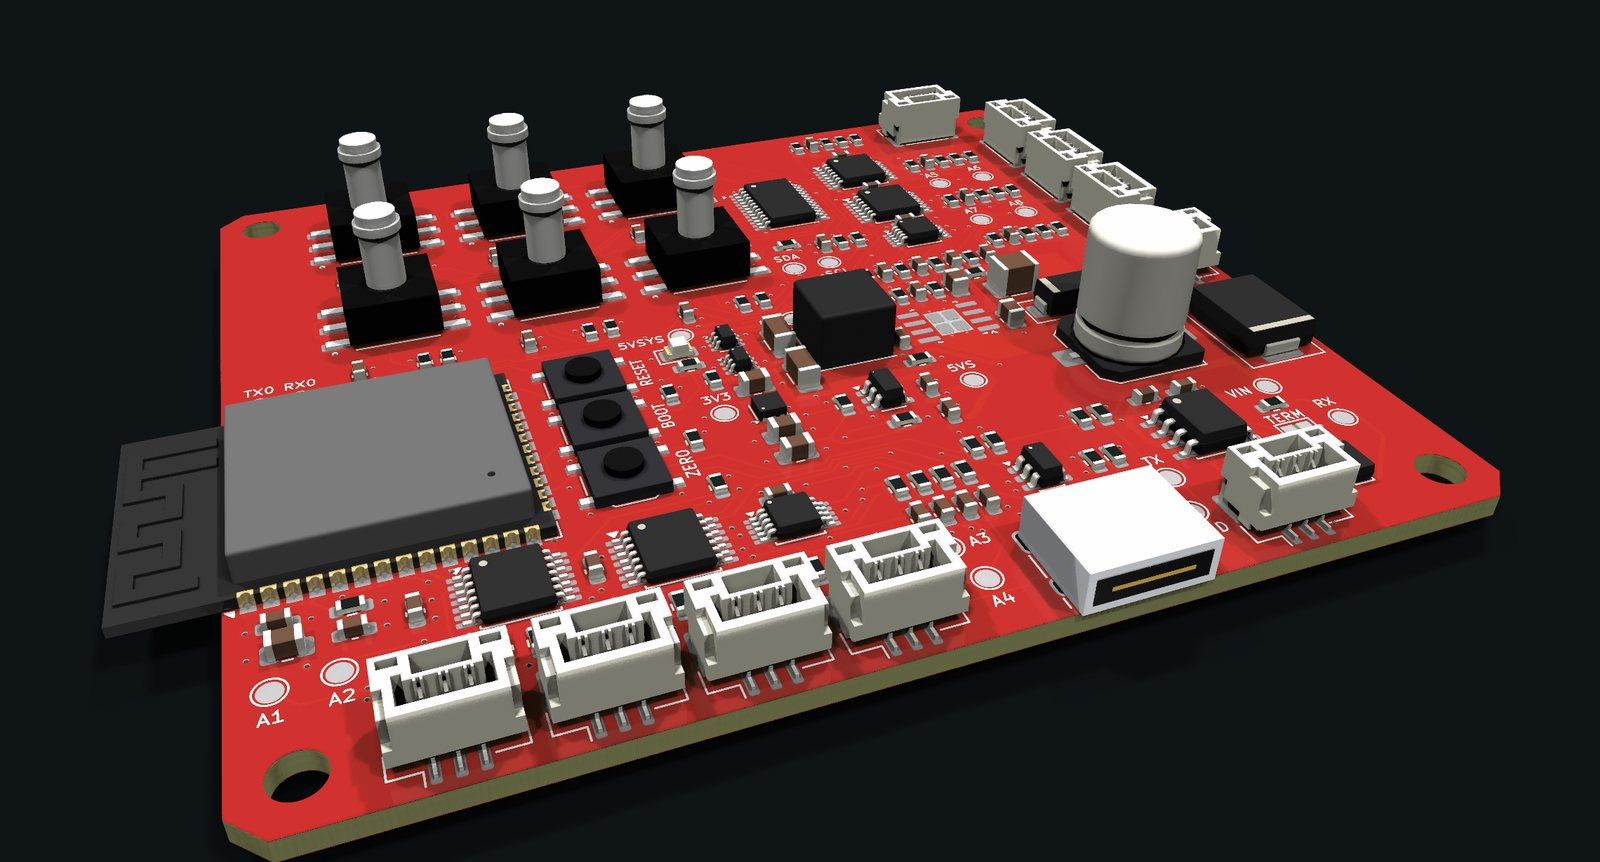
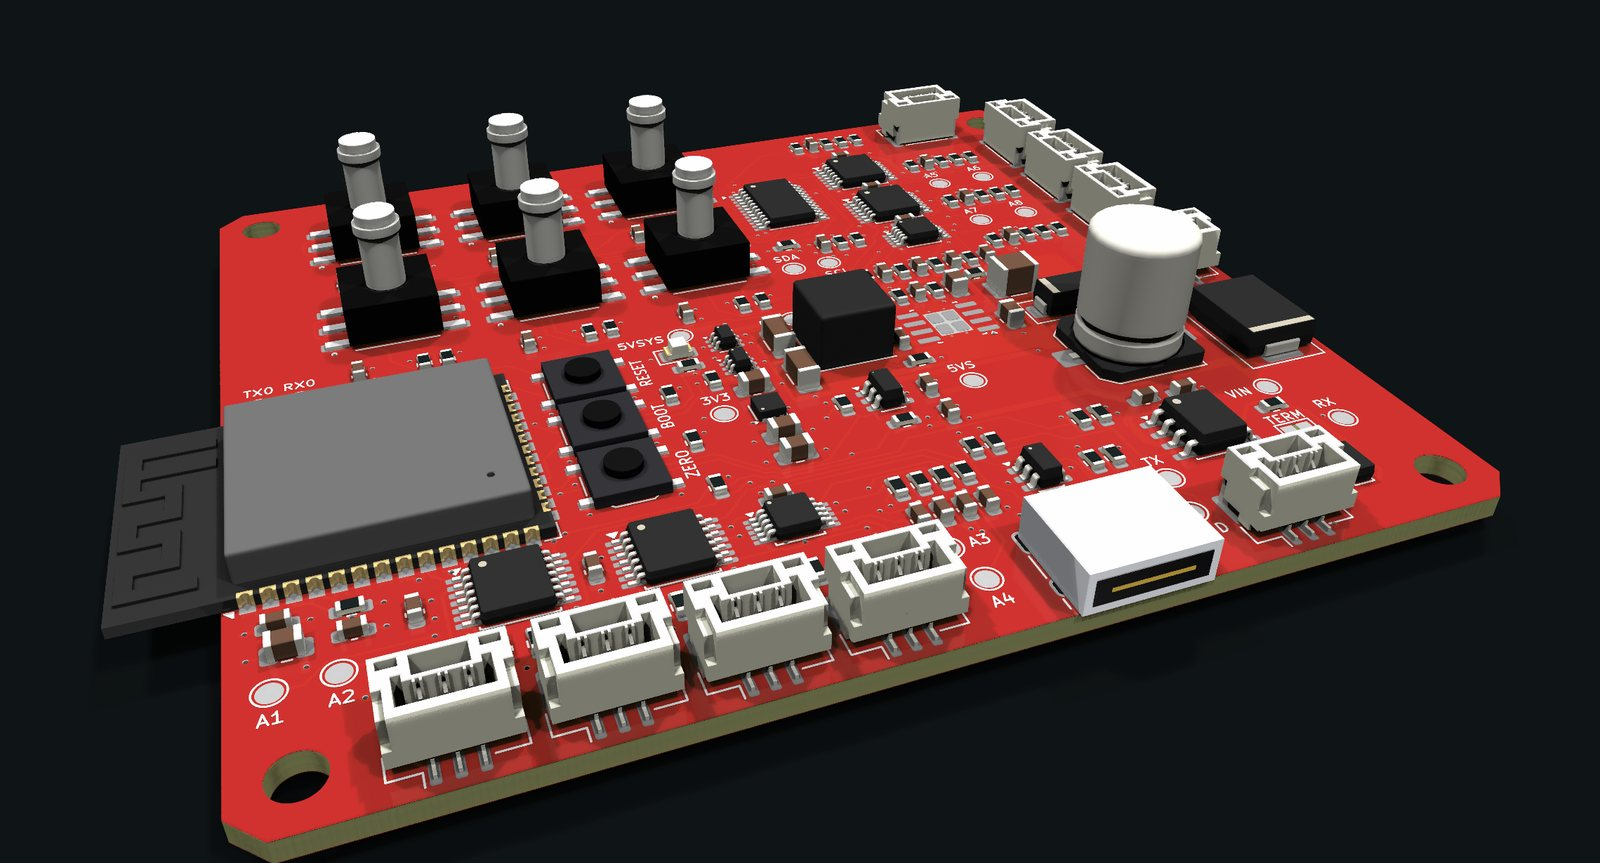
Pressure CAN node post: 1 A 3.3 V regulator, current renders
The board's 3.3 V regulator is now a 1 A TLV76733 with room for Wi-Fi:
tour callout and power schematic updated (SNS pin to the output). New
renders from the current board files, which include the USB-C to
resistor pair on one layer.

Claude-Session: https://claude.ai/code/session_0179yenozQ4DUcdGS3Z8KsNS

diff --git a/_includes/pressure-node-feature.html b/_includes/pressure-node-feature.html
@@ -133,7 +133,7 @@
     <div class="stat"><b>100 Hz</b><span>CAN frames at 500 kbit/s</span></div>
     <div class="stat"><b>12 V</b><span>switched supply, or USB on the bench</span></div>
   </div>
-  <figure class="shot"><a href="/assets/images/pressure-node/hero.jpg"><img src="/assets/images/pressure-node/hero.jpg" alt="Render of the red rev E board at an angle: six pressure sensors, each with one hose barb, in two rows at the back left, the ESP32-S3 module on the left edge, the second analog block and its connectors at the back right, the analog, USB-C and CAN connectors along the front" width="1600" height="864" decoding="async"></a>
+  <figure class="shot"><a href="/assets/images/pressure-node/hero.jpg"><img src="/assets/images/pressure-node/hero.jpg" alt="Render of the red rev E board at an angle: six pressure sensors, each with one hose barb, in two rows at the back left, the ESP32-S3 module on the left edge, the second analog block and its connectors at the back right, the analog, USB-C and CAN connectors along the front" width="1600" height="865" decoding="async"></a>
   <figcaption>Rev E, rendered from the board files. 79 × 70 mm, four layers.</figcaption></figure>
 </div>
 
@@ -148,7 +148,7 @@
 
 <h2 id="board">The board</h2>
 <p class="lead">Everything is surface mount and placed by the board house, the pressure sensors included.</p>
-<figure class="tourfig"><div class="scroll"><svg class="tour" viewBox="0 0 1840 820" role="img" aria-label="Top view of the rev E board with each section labelled: pressure sensors, I2C switch, both analog front ends and their connectors, ADC, status LED, ESP32-S3, buttons, 5 V OR, sensor 5 V switch, 3.3 V regulator, 5 V buck, input protection, 12 V input, CAN transceiver, CAN connector and USB-C"><image href="/assets/images/pressure-node/top.jpg" x="470" y="30" width="900" height="760.5"/><polyline class="ld-u" points="452.0,60.0 464.0,60.0 678.3,150.1"/><polyline class="ld" points="452.0,60.0 464.0,60.0 678.3,150.1"/><circle class="ld-dot" cx="678.3" cy="150.1" r="7"/><text class="ct" x="444" y="70.0" text-anchor="end">Pressure sensors DP1–6</text><text class="cd" x="444" y="101.0" text-anchor="end">WF100DPZ, 10 and 40 kPa, one barb</text><polyline class="ld-u" points="452.0,148.1 464.0,148.1 912.4,433.3"/><polyline class="ld" points="452.0,148.1 464.0,148.1 912.4,433.3"/><circle class="ld-dot" cx="912.4" cy="433.3" r="7"/><text class="ct" x="444" y="158.1" text-anchor="end">5 V OR</text><text class="cd" x="444" y="189.1" text-anchor="end">LM66100 pair: car or USB</text><polyline class="ld-u" points="452.0,236.1 464.0,236.1 874.4,419.2"/><polyline class="ld" points="452.0,236.1 464.0,236.1 874.4,419.2"/><circle class="ld-dot" cx="874.4" cy="419.2" r="7"/><text class="ct" x="444" y="246.1" text-anchor="end">Status LED</text><text class="cd" x="444" y="277.1" text-anchor="end">On when every fitted channel reads</text><polyline class="ld-u" points="452.0,324.2 464.0,324.2 798.3,492.3"/><polyline class="ld" points="452.0,324.2 464.0,324.2 798.3,492.3"/><circle class="ld-dot" cx="798.3" cy="492.3" r="7"/><text class="ct" x="444" y="334.2" text-anchor="end">RESET, BOOT, ZERO</text><text class="cd" x="444" y="365.2" text-anchor="end">ZERO zeroes the pressures</text><polyline class="ld-u" points="452.0,412.2 464.0,412.2 617.3,502.3"/><polyline class="ld" points="452.0,412.2 464.0,412.2 617.3,502.3"/><circle class="ld-dot" cx="617.3" cy="502.3" r="7"/><text class="ct" x="444" y="422.2" text-anchor="end">ESP32-S3</text><text class="cd" x="444" y="453.2" text-anchor="end">Antenna hangs past the edge</text><polyline class="ld-u" points="452.0,500.3 464.0,500.3 912.4,512.3"/><polyline class="ld" points="452.0,500.3 464.0,500.3 912.4,512.3"/><circle class="ld-dot" cx="912.4" cy="512.3" r="7"/><text class="ct" x="444" y="510.3" text-anchor="end">3.3 V regulator</text><text class="cd" x="444" y="541.3" text-anchor="end">TLV75533 LDO for the logic</text><polyline class="ld-u" points="452.0,588.4 464.0,588.4 710.3,630.3"/><polyline class="ld" points="452.0,588.4 464.0,588.4 710.3,630.3"/><circle class="ld-dot" cx="710.3" cy="630.3" r="7"/><text class="ct" x="444" y="598.4" text-anchor="end">Isolate and buffer</text><text class="cd" x="444" y="629.4" text-anchor="end">TMUX1511 and TLV9004, AIN1–4</text><polyline class="ld-u" points="452.0,676.4 464.0,676.4 884.4,630.3"/><polyline class="ld" points="452.0,676.4 464.0,676.4 884.4,630.3"/><circle class="ld-dot" cx="884.4" cy="630.3" r="7"/><text class="ct" x="444" y="686.4" text-anchor="end">16-bit ADC</text><text class="cd" x="444" y="717.4" text-anchor="end">ADS1115 for AIN1–4</text><polyline class="ld-u" points="452.0,764.5 464.0,764.5 662.3,722.4"/><polyline class="ld" points="452.0,764.5 464.0,764.5 662.3,722.4"/><circle class="ld-dot" cx="662.3" cy="722.4" r="7"/><text class="ct" x="444" y="774.5" text-anchor="end">Analog inputs AIN1–4</text><text class="cd" x="444" y="805.5" text-anchor="end">5 V, ground, 0–5 V signal</text><polyline class="ld-u" points="1388.0,60.0 1376.0,60.0 1033.4,210.2"/><polyline class="ld" points="1388.0,60.0 1376.0,60.0 1033.4,210.2"/><circle class="ld-dot" cx="1033.4" cy="210.2" r="7"/><text class="ct" x="1396" y="70.0" text-anchor="start">I2C switch</text><text class="cd" x="1396" y="101.0" text-anchor="start">TCA9548A, a branch per sensor</text><polyline class="ld-u" points="1388.0,138.3 1376.0,138.3 1127.5,245.2"/><polyline class="ld" points="1388.0,138.3 1376.0,138.3 1127.5,245.2"/><circle class="ld-dot" cx="1127.5" cy="245.2" r="7"/><text class="ct" x="1396" y="148.3" text-anchor="start">AIN5–8 front end</text><text class="cd" x="1396" y="179.3" text-anchor="start">Same parts as AIN1–4</text><polyline class="ld-u" points="1388.0,216.6 1376.0,216.6 1303.4,255.2"/><polyline class="ld" points="1388.0,216.6 1376.0,216.6 1303.4,255.2"/><circle class="ld-dot" cx="1303.4" cy="255.2" r="7"/><text class="ct" x="1396" y="226.6" text-anchor="start">Analog inputs AIN5–8</text><text class="cd" x="1396" y="257.6" text-anchor="start">5 V, ground, 0–5 V signal</text><polyline class="ld-u" points="1388.0,294.8 1376.0,294.8 1041.5,446.3"/><polyline class="ld" points="1388.0,294.8 1376.0,294.8 1041.5,446.3"/><circle class="ld-dot" cx="1041.5" cy="446.3" r="7"/><text class="ct" x="1396" y="304.8" text-anchor="start">5 V buck</text><text class="cd" x="1396" y="335.8" text-anchor="start">LM5164 and its 33 µH inductor</text><polyline class="ld-u" points="1388.0,373.1 1376.0,373.1 1215.5,456.3"/><polyline class="ld" points="1388.0,373.1 1376.0,373.1 1215.5,456.3"/><circle class="ld-dot" cx="1215.5" cy="456.3" r="7"/><text class="ct" x="1396" y="383.1" text-anchor="start">Input protection</text><text class="cd" x="1396" y="414.1" text-anchor="start">Fuse, reverse diode, TVS</text><polyline class="ld-u" points="1388.0,451.4 1376.0,451.4 1304.6,431.3"/><polyline class="ld" points="1388.0,451.4 1376.0,451.4 1304.6,431.3"/><circle class="ld-dot" cx="1304.6" cy="431.3" r="7"/><text class="ct" x="1396" y="461.4" text-anchor="start">12 V in</text><text class="cd" x="1396" y="492.4" text-anchor="start">Switched ignition supply</text><polyline class="ld-u" points="1388.0,529.7 1376.0,529.7 996.4,524.3"/><polyline class="ld" points="1388.0,529.7 1376.0,529.7 996.4,524.3"/><circle class="ld-dot" cx="996.4" cy="524.3" r="7"/><text class="ct" x="1396" y="539.7" text-anchor="start">Sensor 5 V switch</text><text class="cd" x="1396" y="570.7" text-anchor="start">TPS2051B, 500 mA limit</text><polyline class="ld-u" points="1388.0,607.9 1376.0,607.9 1182.5,636.3"/><polyline class="ld" points="1388.0,607.9 1376.0,607.9 1182.5,636.3"/><circle class="ld-dot" cx="1182.5" cy="636.3" r="7"/><text class="ct" x="1396" y="617.9" text-anchor="start">CAN transceiver</text><text class="cd" x="1396" y="648.9" text-anchor="start">TCAN1042 and ESD clamp</text><polyline class="ld-u" points="1388.0,686.2 1376.0,686.2 1180.5,722.4"/><polyline class="ld" points="1388.0,686.2 1376.0,686.2 1180.5,722.4"/><circle class="ld-dot" cx="1180.5" cy="722.4" r="7"/><text class="ct" x="1396" y="696.2" text-anchor="start">CAN bus</text><text class="cd" x="1396" y="727.2" text-anchor="start">Bridge TERM for 120 Ω</text><polyline class="ld-u" points="1388.0,764.5 1376.0,764.5 1054.5,727.4"/><polyline class="ld" points="1388.0,764.5 1376.0,764.5 1054.5,727.4"/><circle class="ld-dot" cx="1054.5" cy="727.4" r="7"/><text class="ct" x="1396" y="774.5" text-anchor="start">USB-C</text><text class="cd" x="1396" y="805.5" text-anchor="start">Programming, logs, bench power</text></svg></div></figure>
+<figure class="tourfig"><div class="scroll"><svg class="tour" viewBox="0 0 1840 820" role="img" aria-label="Top view of the rev E board with each section labelled: pressure sensors, I2C switch, both analog front ends and their connectors, ADC, status LED, ESP32-S3, buttons, 5 V OR, sensor 5 V switch, 3.3 V regulator, 5 V buck, input protection, 12 V input, CAN transceiver, CAN connector and USB-C"><image href="/assets/images/pressure-node/top.jpg" x="470" y="30" width="900" height="760.5"/><polyline class="ld-u" points="452.0,60.0 464.0,60.0 678.3,150.1"/><polyline class="ld" points="452.0,60.0 464.0,60.0 678.3,150.1"/><circle class="ld-dot" cx="678.3" cy="150.1" r="7"/><text class="ct" x="444" y="70.0" text-anchor="end">Pressure sensors DP1–6</text><text class="cd" x="444" y="101.0" text-anchor="end">WF100DPZ, 10 and 40 kPa, one barb</text><polyline class="ld-u" points="452.0,148.1 464.0,148.1 912.4,433.3"/><polyline class="ld" points="452.0,148.1 464.0,148.1 912.4,433.3"/><circle class="ld-dot" cx="912.4" cy="433.3" r="7"/><text class="ct" x="444" y="158.1" text-anchor="end">5 V OR</text><text class="cd" x="444" y="189.1" text-anchor="end">LM66100 pair: car or USB</text><polyline class="ld-u" points="452.0,236.1 464.0,236.1 874.4,419.2"/><polyline class="ld" points="452.0,236.1 464.0,236.1 874.4,419.2"/><circle class="ld-dot" cx="874.4" cy="419.2" r="7"/><text class="ct" x="444" y="246.1" text-anchor="end">Status LED</text><text class="cd" x="444" y="277.1" text-anchor="end">On when every fitted channel reads</text><polyline class="ld-u" points="452.0,324.2 464.0,324.2 798.3,492.3"/><polyline class="ld" points="452.0,324.2 464.0,324.2 798.3,492.3"/><circle class="ld-dot" cx="798.3" cy="492.3" r="7"/><text class="ct" x="444" y="334.2" text-anchor="end">RESET, BOOT, ZERO</text><text class="cd" x="444" y="365.2" text-anchor="end">ZERO zeroes the pressures</text><polyline class="ld-u" points="452.0,412.2 464.0,412.2 617.3,502.3"/><polyline class="ld" points="452.0,412.2 464.0,412.2 617.3,502.3"/><circle class="ld-dot" cx="617.3" cy="502.3" r="7"/><text class="ct" x="444" y="422.2" text-anchor="end">ESP32-S3</text><text class="cd" x="444" y="453.2" text-anchor="end">Antenna hangs past the edge</text><polyline class="ld-u" points="452.0,500.3 464.0,500.3 912.4,512.3"/><polyline class="ld" points="452.0,500.3 464.0,500.3 912.4,512.3"/><circle class="ld-dot" cx="912.4" cy="512.3" r="7"/><text class="ct" x="444" y="510.3" text-anchor="end">3.3 V regulator</text><text class="cd" x="444" y="541.3" text-anchor="end">TLV76733 1 A LDO, room for Wi-Fi</text><polyline class="ld-u" points="452.0,588.4 464.0,588.4 710.3,630.3"/><polyline class="ld" points="452.0,588.4 464.0,588.4 710.3,630.3"/><circle class="ld-dot" cx="710.3" cy="630.3" r="7"/><text class="ct" x="444" y="598.4" text-anchor="end">Isolate and buffer</text><text class="cd" x="444" y="629.4" text-anchor="end">TMUX1511 and TLV9004, AIN1–4</text><polyline class="ld-u" points="452.0,676.4 464.0,676.4 884.4,630.3"/><polyline class="ld" points="452.0,676.4 464.0,676.4 884.4,630.3"/><circle class="ld-dot" cx="884.4" cy="630.3" r="7"/><text class="ct" x="444" y="686.4" text-anchor="end">16-bit ADC</text><text class="cd" x="444" y="717.4" text-anchor="end">ADS1115 for AIN1–4</text><polyline class="ld-u" points="452.0,764.5 464.0,764.5 662.3,722.4"/><polyline class="ld" points="452.0,764.5 464.0,764.5 662.3,722.4"/><circle class="ld-dot" cx="662.3" cy="722.4" r="7"/><text class="ct" x="444" y="774.5" text-anchor="end">Analog inputs AIN1–4</text><text class="cd" x="444" y="805.5" text-anchor="end">5 V, ground, 0–5 V signal</text><polyline class="ld-u" points="1388.0,60.0 1376.0,60.0 1033.4,210.2"/><polyline class="ld" points="1388.0,60.0 1376.0,60.0 1033.4,210.2"/><circle class="ld-dot" cx="1033.4" cy="210.2" r="7"/><text class="ct" x="1396" y="70.0" text-anchor="start">I2C switch</text><text class="cd" x="1396" y="101.0" text-anchor="start">TCA9548A, a branch per sensor</text><polyline class="ld-u" points="1388.0,138.3 1376.0,138.3 1127.5,245.2"/><polyline class="ld" points="1388.0,138.3 1376.0,138.3 1127.5,245.2"/><circle class="ld-dot" cx="1127.5" cy="245.2" r="7"/><text class="ct" x="1396" y="148.3" text-anchor="start">AIN5–8 front end</text><text class="cd" x="1396" y="179.3" text-anchor="start">Same parts as AIN1–4</text><polyline class="ld-u" points="1388.0,216.6 1376.0,216.6 1303.4,255.2"/><polyline class="ld" points="1388.0,216.6 1376.0,216.6 1303.4,255.2"/><circle class="ld-dot" cx="1303.4" cy="255.2" r="7"/><text class="ct" x="1396" y="226.6" text-anchor="start">Analog inputs AIN5–8</text><text class="cd" x="1396" y="257.6" text-anchor="start">5 V, ground, 0–5 V signal</text><polyline class="ld-u" points="1388.0,294.8 1376.0,294.8 1041.5,446.3"/><polyline class="ld" points="1388.0,294.8 1376.0,294.8 1041.5,446.3"/><circle class="ld-dot" cx="1041.5" cy="446.3" r="7"/><text class="ct" x="1396" y="304.8" text-anchor="start">5 V buck</text><text class="cd" x="1396" y="335.8" text-anchor="start">LM5164 and its 33 µH inductor</text><polyline class="ld-u" points="1388.0,373.1 1376.0,373.1 1215.5,456.3"/><polyline class="ld" points="1388.0,373.1 1376.0,373.1 1215.5,456.3"/><circle class="ld-dot" cx="1215.5" cy="456.3" r="7"/><text class="ct" x="1396" y="383.1" text-anchor="start">Input protection</text><text class="cd" x="1396" y="414.1" text-anchor="start">Fuse, reverse diode, TVS</text><polyline class="ld-u" points="1388.0,451.4 1376.0,451.4 1304.6,431.3"/><polyline class="ld" points="1388.0,451.4 1376.0,451.4 1304.6,431.3"/><circle class="ld-dot" cx="1304.6" cy="431.3" r="7"/><text class="ct" x="1396" y="461.4" text-anchor="start">12 V in</text><text class="cd" x="1396" y="492.4" text-anchor="start">Switched ignition supply</text><polyline class="ld-u" points="1388.0,529.7 1376.0,529.7 996.4,524.3"/><polyline class="ld" points="1388.0,529.7 1376.0,529.7 996.4,524.3"/><circle class="ld-dot" cx="996.4" cy="524.3" r="7"/><text class="ct" x="1396" y="539.7" text-anchor="start">Sensor 5 V switch</text><text class="cd" x="1396" y="570.7" text-anchor="start">TPS2051B, 500 mA limit</text><polyline class="ld-u" points="1388.0,607.9 1376.0,607.9 1182.5,636.3"/><polyline class="ld" points="1388.0,607.9 1376.0,607.9 1182.5,636.3"/><circle class="ld-dot" cx="1182.5" cy="636.3" r="7"/><text class="ct" x="1396" y="617.9" text-anchor="start">CAN transceiver</text><text class="cd" x="1396" y="648.9" text-anchor="start">TCAN1042 and ESD clamp</text><polyline class="ld-u" points="1388.0,686.2 1376.0,686.2 1180.5,722.4"/><polyline class="ld" points="1388.0,686.2 1376.0,686.2 1180.5,722.4"/><circle class="ld-dot" cx="1180.5" cy="722.4" r="7"/><text class="ct" x="1396" y="696.2" text-anchor="start">CAN bus</text><text class="cd" x="1396" y="727.2" text-anchor="start">Bridge TERM for 120 Ω</text><polyline class="ld-u" points="1388.0,764.5 1376.0,764.5 1054.5,727.4"/><polyline class="ld" points="1388.0,764.5 1376.0,764.5 1054.5,727.4"/><circle class="ld-dot" cx="1054.5" cy="727.4" r="7"/><text class="ct" x="1396" y="774.5" text-anchor="start">USB-C</text><text class="cd" x="1396" y="805.5" text-anchor="start">Programming, logs, bench power</text></svg></div></figure>
 <figure class="shot"><figcaption>Top view, rendered. <a href="/assets/images/pressure-node/top.jpg">Open the full-size render.</a></figcaption></figure>
 <figure class="shot"><a href="/assets/images/pressure-node/sensors.jpg"><img src="/assets/images/pressure-node/sensors.jpg" alt="Close render of the six pressure sensors in two rows of three, each a small black body with one grey hose barb in the middle, with the I2C switch to their right" width="1600" height="460" loading="lazy" decoding="async"></a>
 <figcaption>The six sensors, DP1–3 at the back and DP4–6 in front. Each has one barb; DP5 and DP6 are the 40 kPa parts.</figcaption></figure>
@@ -273,7 +273,7 @@
 <a href="#pcn-power" class="ovlink"><rect class="b ic ovbox" x="216" y="30" width="140" height="54" rx="4"/><text class="ovt" x="226" y="53">Protection</text><text class="val" x="226" y="71">F1 · D1 · D2</text></a>
 <a href="#pcn-power" class="ovlink"><rect class="b ic ovbox" x="412" y="30" width="140" height="54" rx="4"/><text class="ovt" x="422" y="53">5 V buck</text><text class="val" x="422" y="71">U1 LM5164</text></a>
 <a href="#pcn-rails" class="ovlink"><rect class="b ic ovbox" x="608" y="30" width="140" height="54" rx="4"/><text class="ovt" x="618" y="53">5 V OR</text><text class="val" x="618" y="71">U17 · U18</text></a>
-<a href="#pcn-rails" class="ovlink"><rect class="b ic ovbox" x="804" y="30" width="140" height="54" rx="4"/><text class="ovt" x="814" y="53">3.3 V LDO</text><text class="val" x="814" y="71">U2 TLV75533</text></a>
+<a href="#pcn-rails" class="ovlink"><rect class="b ic ovbox" x="804" y="30" width="140" height="54" rx="4"/><text class="ovt" x="814" y="53">3.3 V LDO</text><text class="val" x="814" y="71">U2 TLV76733</text></a>
 <a href="#pcn-rails" class="ovlink"><rect class="b ic ovbox" x="412" y="130" width="140" height="54" rx="4"/><text class="ovt" x="422" y="153">Sensor 5 V</text><text class="val" x="422" y="171">U3 TPS2051B</text></a>
 <a href="#pcn-mcu" class="ovlink"><rect class="b ic ovbox" x="608" y="130" width="140" height="54" rx="4"/><text class="ovt" x="618" y="153">USB-C</text><text class="val" x="618" y="171">J3 · U5</text></a>
 <a href="#pcn-mcu" class="ovlink"><rect class="b ic ovbox" x="804" y="130" width="140" height="54" rx="4"/><text class="ovt" x="814" y="153">ESP32-S3</text><text class="val" x="814" y="171">U4 WROOM-1</text></a>
@@ -435,7 +435,7 @@
 <text class="tagt r" x="1011" y="134" text-anchor="start">5V BUCK</text>
 <text class="ref" x="700" y="263" text-anchor="middle">R5  10k</text>
 <text class="tagt r" x="746" y="279" text-anchor="start">3V3</text>
-</svg></div><figcaption>12 V comes in on J1 through a 1 A fuse and an SS210 Schottky that blocks a reversed battery. D2 clamps load dump at about 53 V. U1 bucks it to 5 V at about 268 kHz: R1 sets the frequency, R2 and R3 set 5.03 V, and R4, C4 and C5 give the constant-on-time loop the ramp it needs (22 mV at 9 V in, 31 mV at 12 V).</figcaption></figure></section><section class="sheet" id="pcn-rails"><div class="tb"><span class="no">2</span><h3>5 V OR, 3.3 V and sensor supply</h3><span class="refs">U17 · U18 · R55 · U2 · U3 · C9–C12 · R6 · R7</span></div><figure class="sch"><div class="scroll"><svg viewBox="0 0 1000 445" role="img" aria-label="5 V OR with two LM66100 ideal diodes, TLV75533 3.3 V LDO, and the TPS2051B switch for the external sensor supply" style="min-width:720px">
+</svg></div><figcaption>12 V comes in on J1 through a 1 A fuse and an SS210 Schottky that blocks a reversed battery. D2 clamps load dump at about 53 V. U1 bucks it to 5 V at about 268 kHz: R1 sets the frequency, R2 and R3 set 5.03 V, and R4, C4 and C5 give the constant-on-time loop the ramp it needs (22 mV at 9 V in, 31 mV at 12 V).</figcaption></figure></section><section class="sheet" id="pcn-rails"><div class="tb"><span class="no">2</span><h3>5 V OR, 3.3 V and sensor supply</h3><span class="refs">U17 · U18 · R55 · U2 · U3 · C9–C12 · R6 · R7</span></div><figure class="sch"><div class="scroll"><svg viewBox="0 0 1000 445" role="img" aria-label="5 V OR with two LM66100 ideal diodes, TLV76733 3.3 V LDO, and the TPS2051B switch for the external sensor supply" style="min-width:720px">
 <polyline class="w r" points="80,80 122,80"/>
 <polyline class="w r" points="80,210 122,210"/>
 <polyline class="w r" points="108,210 108,110 122,110"/>
@@ -448,6 +448,7 @@
 <polyline class="w r" points="290,210 258,210"/>
 <polyline class="w r" points="290,145 422,145"/>
 <polyline class="w r" points="350,145 350,165"/>
+<polyline class="w r" points="558,180 580,180 580,145"/>
 <polyline class="w r" points="422,180 405,180 405,145"/>
 <polyline class="w r" points="558,145 740,145"/>
 <polyline class="w r" points="610,145 610,165"/>
@@ -486,8 +487,10 @@
 <path class="s" d="M422 145H440"/>
 <path class="s" d="M422 180H440"/>
 <path class="s" d="M540 145H558"/>
+<path class="s" d="M540 180H558"/>
 <path class="s" d="M490 215V233"/>
 <path class="s" d="M490 233V241M482 241H498M485 245H495M488 249H492"/>
+<circle class="dot r" cx="580" cy="145" r="3"/>
 <circle class="dot r" cx="405" cy="145" r="3"/>
 <circle class="dot r" cx="610" cy="145" r="3"/>
 <g transform="translate(610 185) rotate(90)"><path class="s" d="M-20 0H-3M3 0H20M-3 -9V9M3 -9V9"/></g>
@@ -548,15 +551,17 @@
 <text class="ref" x="362" y="178" text-anchor="start">C9</text>
 <text class="val" x="362" y="191" text-anchor="start">10µF</text>
 <text class="icref" x="490.0" y="154.0" text-anchor="middle">U2</text>
-<text class="icname" x="490.0" y="169.0" text-anchor="middle">TLV75533</text>
-<text class="val" x="490.0" y="184.0" text-anchor="middle">3.3 V LDO</text>
+<text class="icname" x="490.0" y="169.0" text-anchor="middle">TLV76733</text>
+<text class="val" x="490.0" y="184.0" text-anchor="middle">1 A LDO</text>
 <text class="pn" x="431" y="141" text-anchor="middle">6</text>
 <text class="pnm" x="445" y="149" text-anchor="start">IN</text>
 <text class="pn" x="431" y="176" text-anchor="middle">4</text>
 <text class="pnm" x="445" y="184" text-anchor="start">EN</text>
 <text class="pn" x="549" y="141" text-anchor="middle">1</text>
 <text class="pnm" x="535" y="149" text-anchor="end">OUT</text>
-<text class="pn" x="494" y="228" text-anchor="start">3,7</text>
+<text class="pn" x="549" y="176" text-anchor="middle">2</text>
+<text class="pnm" x="535" y="184" text-anchor="end">SNS</text>
+<text class="pn" x="494" y="228" text-anchor="start">3,5,7</text>
 <text class="pnm" x="490" y="209" text-anchor="middle">GND</text>
 <text class="ref" x="622" y="178" text-anchor="start">C10</text>
 <text class="val" x="622" y="191" text-anchor="start">22µF</text>
@@ -596,7 +601,7 @@
 <text class="tagt r" x="571" y="334" text-anchor="start">5V SENS</text>
 <text class="note" x="565" y="355" text-anchor="start">to pin 1 of J4–J7 and J9–J12</text>
 <text class="note" x="565" y="369" text-anchor="start">through 0 Ω links (R32, R37 … R71)</text>
-</svg></div><figcaption>U17 and U18 are ideal diodes, and U17, on the buck, has priority. While it conducts, R55 holds U18&#x27;s CE high and USB is cut off; when the buck is missing or lower, U17&#x27;s ST goes low and turns U18 on. One of them is always on, even with both supplies at the same voltage, and USB and the car can&#x27;t push current into each other. U2 makes 3.3 V for the logic. U3 takes the buck&#x27;s 5 V from ahead of the OR and switches it out to the analog-input connectors when the firmware asks, limited to 500 mA, so USB alone never powers external sensors.</figcaption></figure></section><section class="sheet" id="pcn-mcu"><div class="tb"><span class="no">3</span><h3>ESP32-S3, USB and buttons</h3><span class="refs">U4 · J3 · U5 · SW1–SW3 · D5 · R8–R16 · C13–C15</span></div><figure class="sch"><div class="scroll"><svg viewBox="0 0 1000 700" role="img" aria-label="ESP32-S3-WROOM-1 U4 with reset, boot and zero buttons, USB-C J3 with ESD protection, status LED, and the GPIO assignments" style="min-width:720px">
+</svg></div><figcaption>U17 and U18 are ideal diodes, and U17, on the buck, has priority. While it conducts, R55 holds U18&#x27;s CE high and USB is cut off; when the buck is missing or lower, U17&#x27;s ST goes low and turns U18 on. One of them is always on, even with both supplies at the same voltage, and USB and the car can&#x27;t push current into each other. U2, a 1 A LDO with room for Wi-Fi, makes 3.3 V for the logic; its SNS pin senses the output. U3 takes the buck&#x27;s 5 V from ahead of the OR and switches it out to the analog-input connectors when the firmware asks, limited to 500 mA, so USB alone never powers external sensors.</figcaption></figure></section><section class="sheet" id="pcn-mcu"><div class="tb"><span class="no">3</span><h3>ESP32-S3, USB and buttons</h3><span class="refs">U4 · J3 · U5 · SW1–SW3 · D5 · R8–R16 · C13–C15</span></div><figure class="sch"><div class="scroll"><svg viewBox="0 0 1000 700" role="img" aria-label="ESP32-S3-WROOM-1 U4 with reset, boot and zero buttons, USB-C J3 with ESD protection, status LED, and the GPIO assignments" style="min-width:720px">
 <polyline class="w" points="618,70 660,70"/>
 <polyline class="w" points="618,110 660,110"/>
 <polyline class="w" points="618,150 660,150"/>
